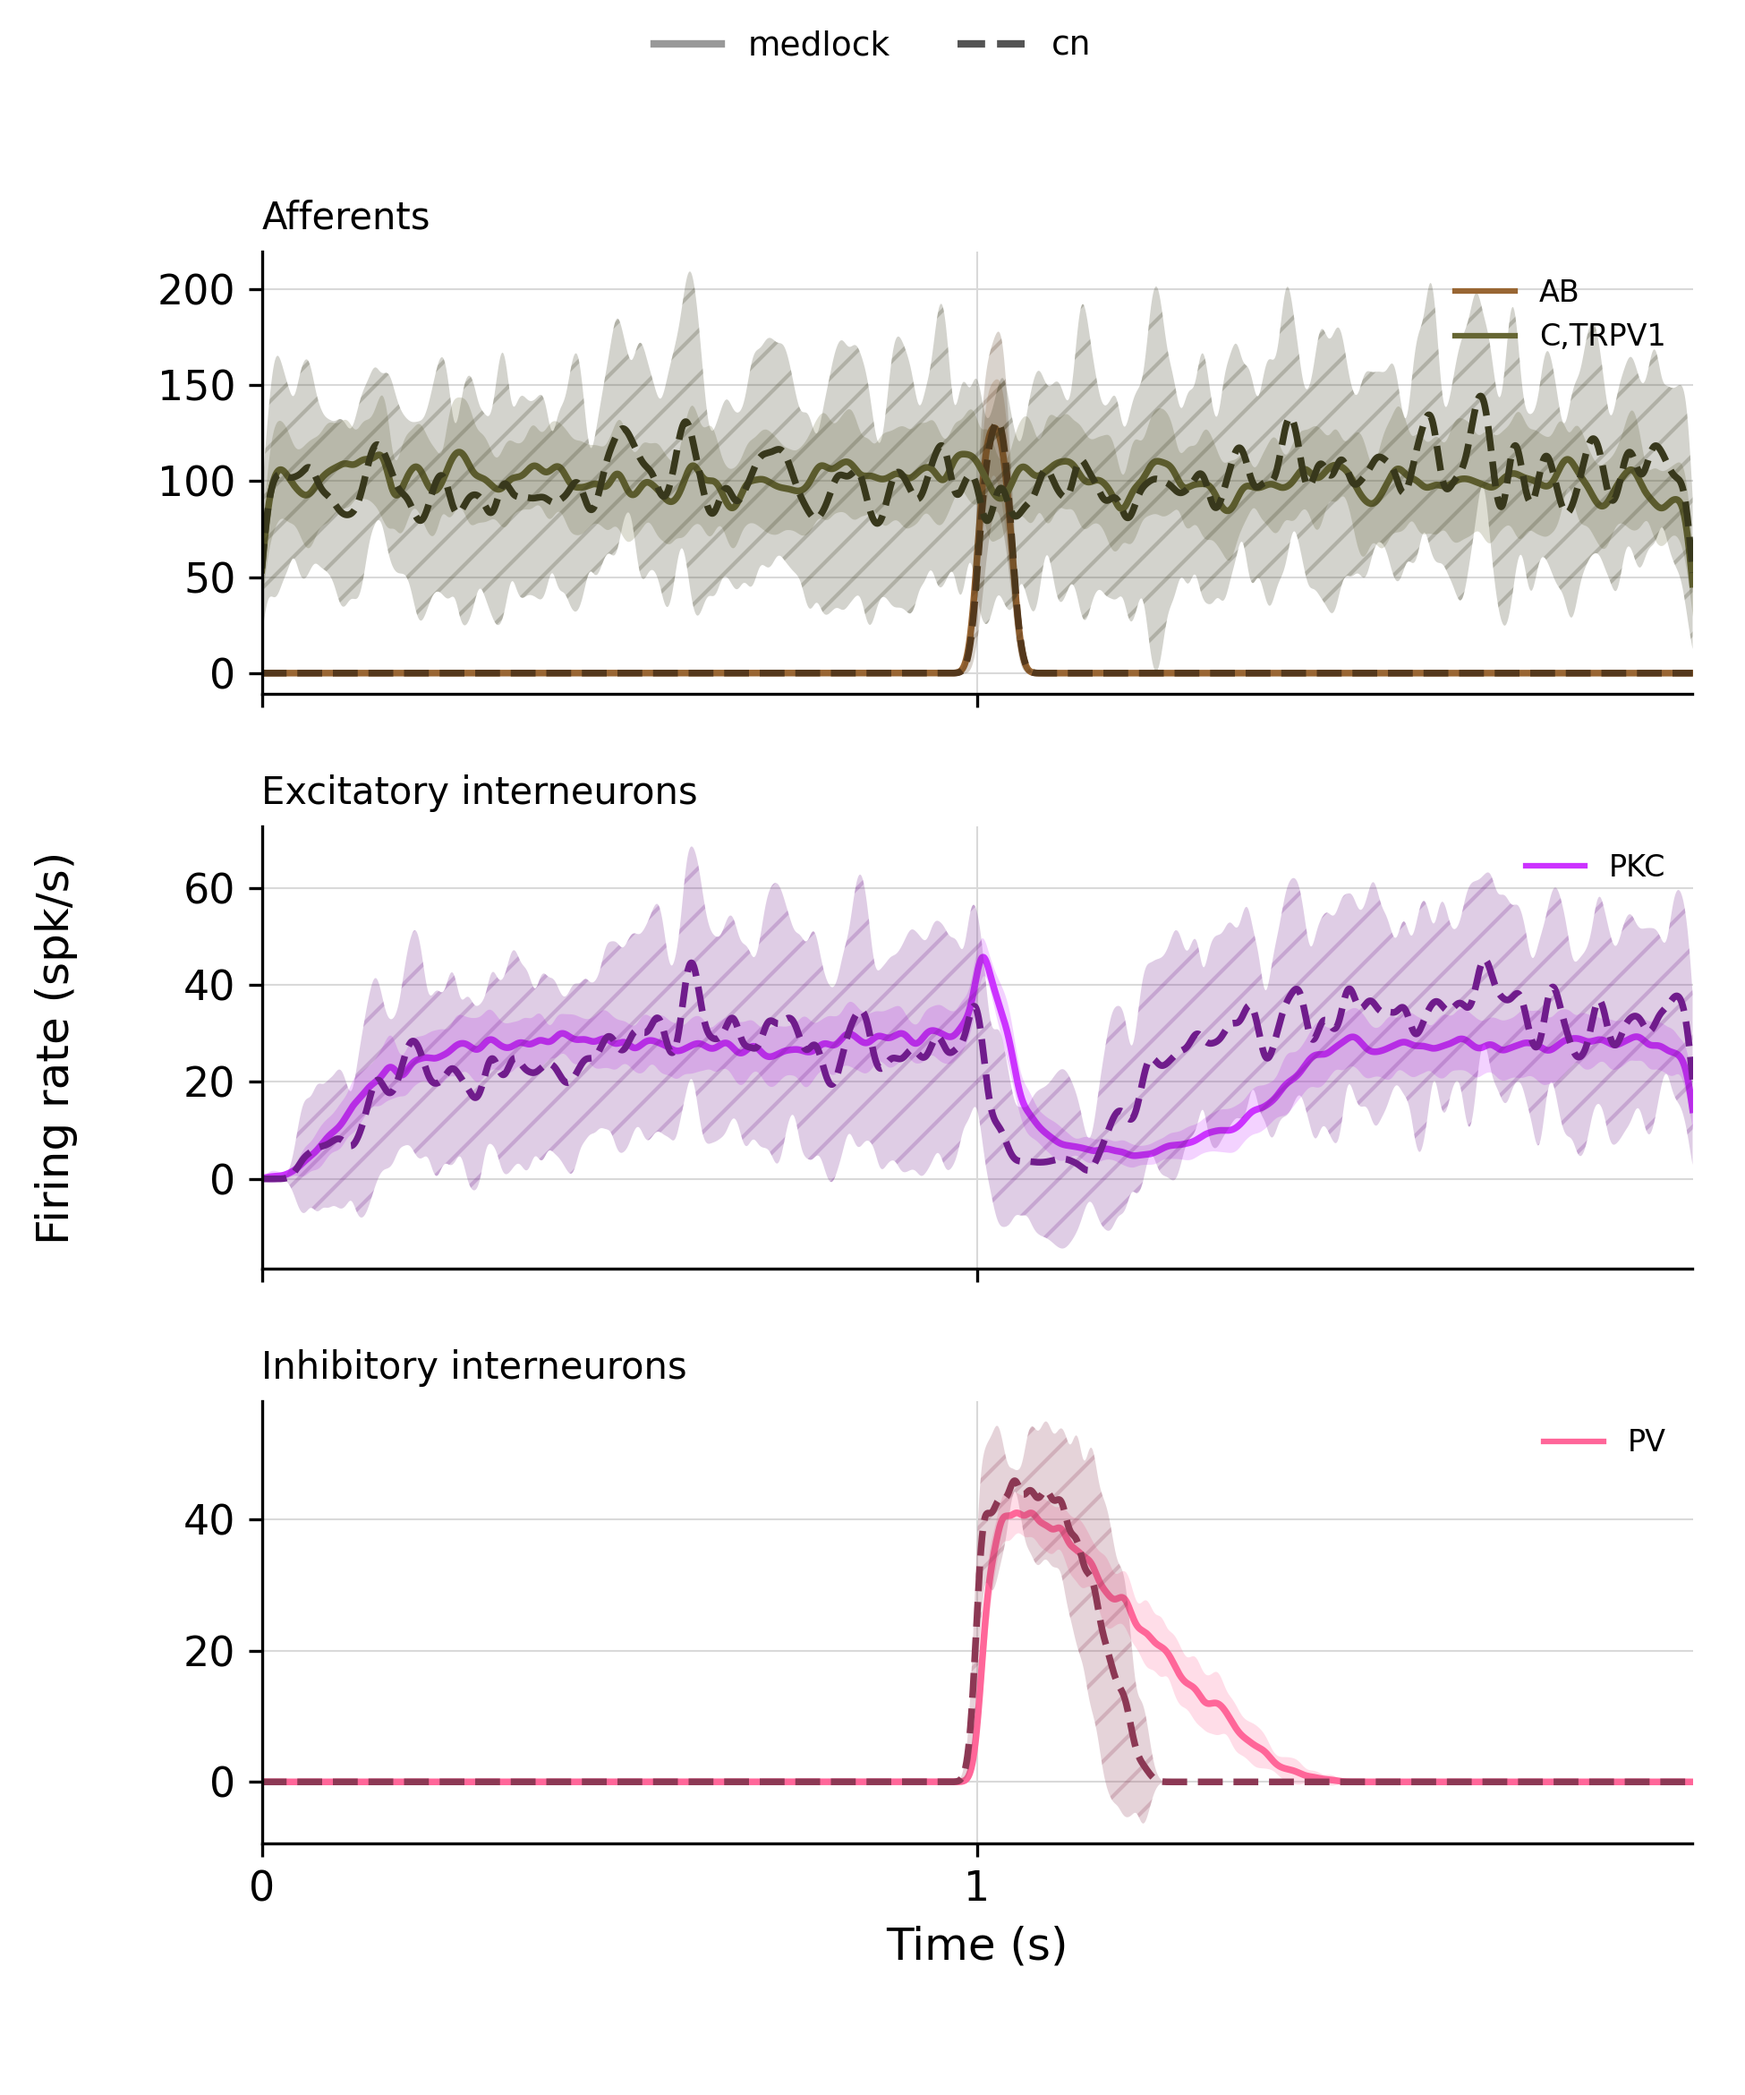
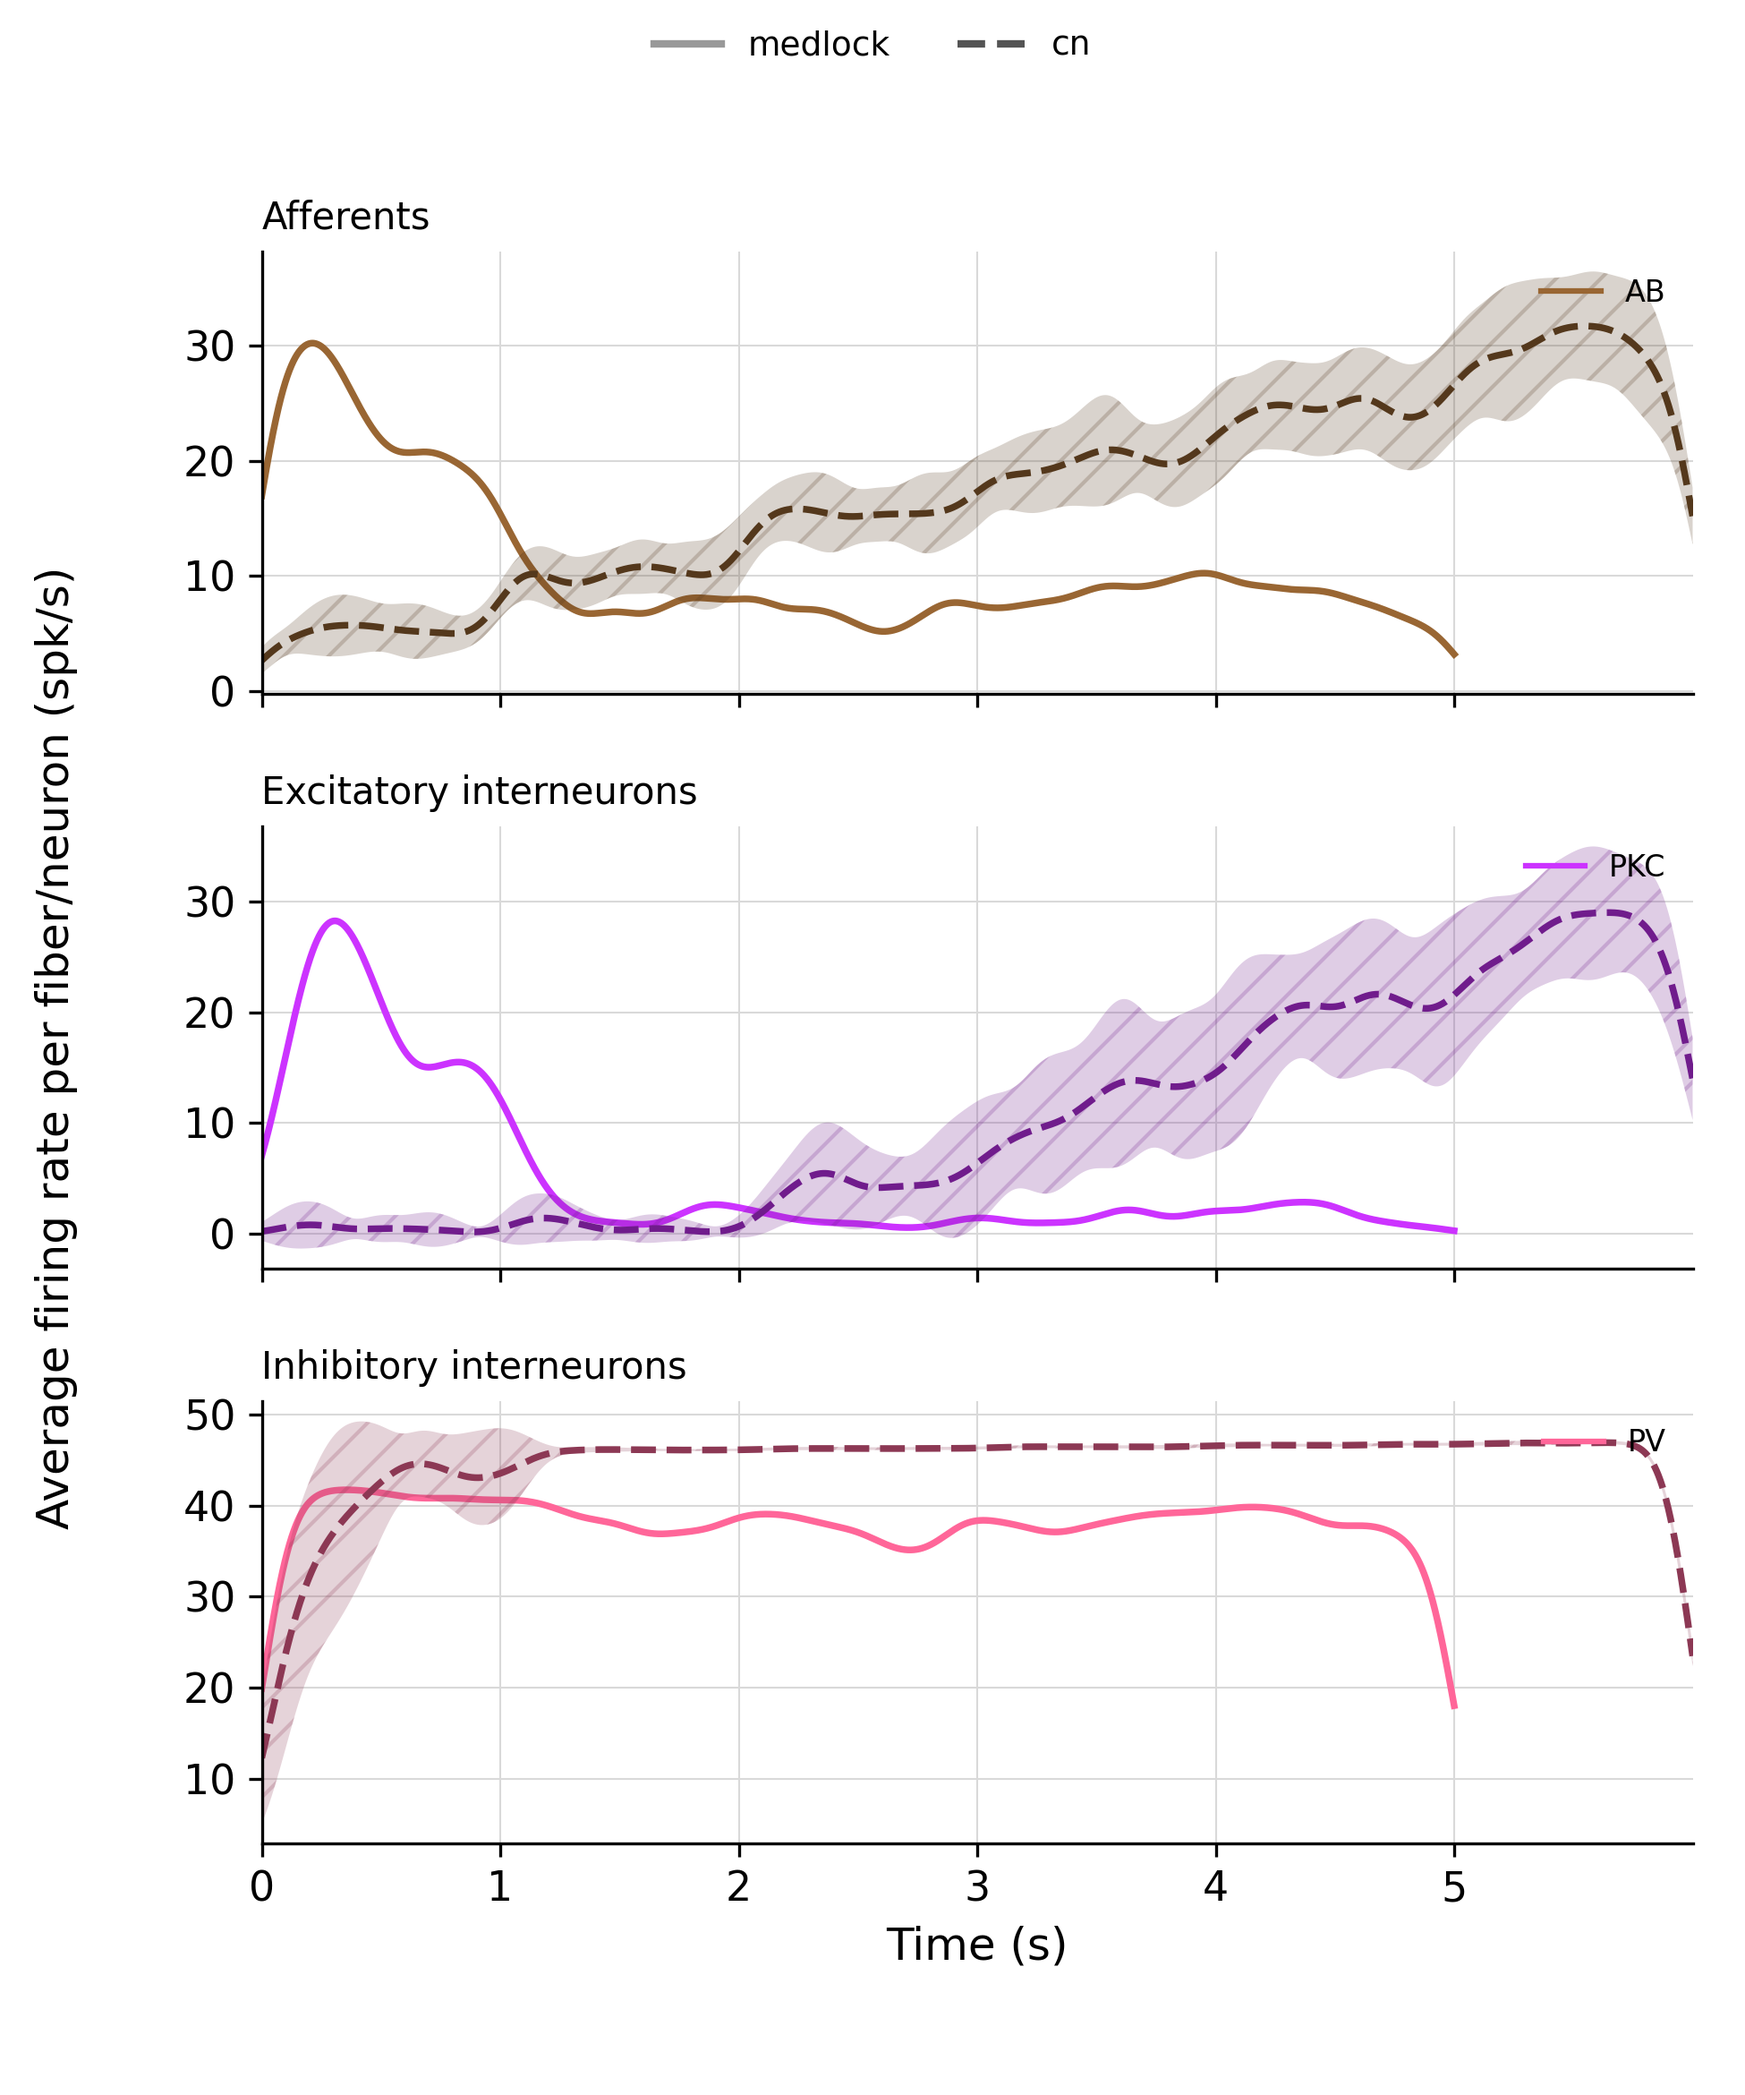
adding in idyn etc

diff --git a/netParams_mechanical_cn.py b/netParams_mechanical_cn.py
@@ -102,12 +102,12 @@ spkt_Ab_testing_1 = make_poisson_pop(rate=30, n_cells=_nAb, t_start=1250, t_stop
 spkt_Ab_testing_0 = make_poisson_pop(rate=30, n_cells=_nAb, t_start=1300, t_stop=1330, seed_base=_seed*5)
 '''
 
-spkt_Ab_testing_30 = make_poisson_pop(rate=1, n_cells=_nAb, t_start=0, t_stop=1000, seed_base=_seed*1000)
-spkt_Ab_testing_20 = make_poisson_pop(rate=2, n_cells=_nAb, t_start=1000, t_stop=2000, seed_base=_seed*28)
-spkt_Ab_testing_10 = make_poisson_pop(rate=4, n_cells=_nAb, t_start=2000, t_stop=3000, seed_base=_seed*1)
-spkt_Ab_testing_5 = make_poisson_pop(rate=6, n_cells=_nAb, t_start=3000, t_stop=4000, seed_base=_seed*161)
-spkt_Ab_testing_2 = make_poisson_pop(rate=8, n_cells=_nAb, t_start=4000, t_stop=5000, seed_base=_seed*55)
-spkt_Ab_testing_1 = make_poisson_pop(rate=10, n_cells=_nAb, t_start=5000, t_stop=6000, seed_base=_seed*17)
+spkt_Ab_testing_30 = make_poisson_pop(rate=5, n_cells=_nAb, t_start=0, t_stop=1000, seed_base=_seed*1000)
+spkt_Ab_testing_20 = make_poisson_pop(rate=10, n_cells=_nAb, t_start=1000, t_stop=2000, seed_base=_seed*28)
+spkt_Ab_testing_10 = make_poisson_pop(rate=15, n_cells=_nAb, t_start=2000, t_stop=3000, seed_base=_seed*1)
+spkt_Ab_testing_5 = make_poisson_pop(rate=20, n_cells=_nAb, t_start=3000, t_stop=4000, seed_base=_seed*161)
+spkt_Ab_testing_2 = make_poisson_pop(rate=25, n_cells=_nAb, t_start=4000, t_stop=5000, seed_base=_seed*55)
+spkt_Ab_testing_1 = make_poisson_pop(rate=30, n_cells=_nAb, t_start=5000, t_stop=6000, seed_base=_seed*17)
 
 blocks = [spkt_Ab_testing_1, spkt_Ab_testing_2, spkt_Ab_testing_5,
           spkt_Ab_testing_10, spkt_Ab_testing_20, spkt_Ab_testing_30]
@@ -123,12 +123,12 @@ spkt_Ab_testing_1 = make_poisson_pop(rate=30, n_cells=_nAb, t_start=1250, t_stop
 spkt_Ab_testing_0 = make_poisson_pop(rate=30, n_cells=_nAb, t_start=1300, t_stop=1330, seed_base=_seed*5)
 '''
 
-spkt_Ab_testing_30 = make_poisson_pop(rate=1, n_cells=_nAb, t_start=0, t_stop=1000, seed_base=_seed*30)
-spkt_Ab_testing_20 = make_poisson_pop(rate=2, n_cells=_nAb, t_start=1000, t_stop=2000, seed_base=_seed*20)
-spkt_Ab_testing_10 = make_poisson_pop(rate=4, n_cells=_nAb, t_start=2000, t_stop=3000, seed_base=_seed*10)
-spkt_Ab_testing_5 = make_poisson_pop(rate=6, n_cells=_nAb, t_start=3000, t_stop=4000, seed_base=_seed*5)
-spkt_Ab_testing_2 = make_poisson_pop(rate=8, n_cells=_nAb, t_start=4000, t_stop=5000, seed_base=_seed*2)
-spkt_Ab_testing_1 = make_poisson_pop(rate=10, n_cells=_nAb, t_start=5000, t_stop=6000, seed_base=_seed*2)
+spkt_Ab_testing_30 = make_poisson_pop(rate=5, n_cells=_nAb, t_start=0, t_stop=1000, seed_base=_seed*30)
+spkt_Ab_testing_20 = make_poisson_pop(rate=10, n_cells=_nAb, t_start=1000, t_stop=2000, seed_base=_seed*20)
+spkt_Ab_testing_10 = make_poisson_pop(rate=15, n_cells=_nAb, t_start=2000, t_stop=3000, seed_base=_seed*10)
+spkt_Ab_testing_5 = make_poisson_pop(rate=20, n_cells=_nAb, t_start=3000, t_stop=4000, seed_base=_seed*5)
+spkt_Ab_testing_2 = make_poisson_pop(rate=25, n_cells=_nAb, t_start=4000, t_stop=5000, seed_base=_seed*2)
+spkt_Ab_testing_1 = make_poisson_pop(rate=30, n_cells=_nAb, t_start=5000, t_stop=6000, seed_base=_seed*2)
 
 blocks = [spkt_Ab_testing_1, spkt_Ab_testing_2, spkt_Ab_testing_5,
           spkt_Ab_testing_10, spkt_Ab_testing_20, spkt_Ab_testing_30]
@@ -165,21 +165,23 @@ for i in range(NUM_AB_PULSE):
 
 spkt_Ab_30 = make_poisson_pop(rate=AB_FIBER_RATE, n_cells=_nAb, t_start=1000, t_stop=1050, seed_base=1)
 
-#netParams.popParams['Ab_PV'] = {'cellModel': 'VecStim', 'numCells': _nAb, 'spkTimes': spkt_Ab_pulse_PV}
-#netParams.popParams['Ab'] = {'cellModel': 'VecStim', 'numCells': _nAb, 'spkTimes': spkt_Ab_pulse_PKC}
+netParams.popParams['Ab_PV'] = {'cellModel': 'VecStim', 'numCells': _nAb, 'spkTimes': spkt_Ab_pulse_PV}
+netParams.popParams['Ab'] = {'cellModel': 'VecStim', 'numCells': _nAb, 'spkTimes': spkt_Ab_pulse_PKC}
 
 
 #spkt_Ab_30 = make_poisson_pop(rate=30, n_cells=_nAb, t_start=A_START, t_stop=A_END, seed_base=_seed*30)
 #spkt_Ab_30_PV = make_poisson_pop(rate=30, n_cells=_nAb, t_start=A_START, t_stop=A_END, seed_base=_seed*417)
 
 
-#netParams.popParams['Ab'] = {'cellModel': 'VecStim', 'numCells': _nAb, 'spkTimes': spkt_Ab_staircase}
-#netParams.popParams['Ab_PV'] = {'cellModel': 'VecStim', 'numCells': _nAb, 'spkTimes': spkt_Ab_staircase_PV}
-netParams.popParams['C_PEP'] = {'cellModel': 'VecStim', 'numCells': NUM_C_FIBERS, 'spkTimes': spkt_C}
+netParams.popParams['Ab'] = {'cellModel': 'VecStim', 'numCells': _nAb, 'spkTimes': spkt_Ab_staircase}
+netParams.popParams['Ab_PV'] = {'cellModel': 'VecStim', 'numCells': _nAb, 'spkTimes': spkt_Ab_staircase_PV}
+#netParams.popParams['C_PEP'] = {'cellModel': 'VecStim', 'numCells': NUM_C_FIBERS, 'spkTimes': spkt_C}
 #netParams.popParams['C_PEP'] = {'cellModel': 'VecStim', 'numCells': NUM_C_FIBERS, 'spkTimes': spkt_C_pulse}
-#netParams.popParams['PV'] = {'cellType': 'IN', 'numCells': 1} # PV+ neurons (inhibitory)
-#netParams.popParams['PKC'] = {'cellType': 'EXdl', 'numCells': 1}
-netParams.popParams['NK1'] = {'cellType': 'PRO', 'numCells': 1} # NK1+ neurons (projection)
+netParams.popParams['PV'] = {'cellType': 'IN', 'numCells': 1} # PV+ neurons (inhibitory)
+netParams.popParams['PKC'] = {'cellType': 'EXdl', 'numCells': 1}
+#netParams.popParams['NK1'] = {'cellType': 'PRO', 'numCells': 1} # NK1+ neurons (projection)
+#netParams.popParams['DYN'] = {'cellType': 'IN', 'numCells': 1} # Central/DYN+ neurons (inhibitory)
+
 
 
 netParams.defaultThreshold = -30
@@ -190,6 +192,7 @@ netParams.synMechParams['GABA'] = {'mod': 'GABAa_DynSyn'  , 'tau_rise': 0.1, 'ta
 netParams.synMechParams['GLY']  = {'mod': 'Glycine_DynSyn', 'tau_rise': 0.1, 'tau_decay': 10, 'e': -70 }
 netParams.synMechParams['NK13'] = {'mod': 'NK1_DynSyn'    , 'tau_rise': 100, 'tau_decay': 1000         }
 netParams.synMechParams['NK23'] = {'mod': 'NK1_DynSyn'    , 'tau_rise': 200, 'tau_decay': 3000         }
+
 
 netParams.connParams['Ab_AMPA->PV'] = {
     'oneSynPerNetcon': True,
@@ -316,3 +319,14 @@ netParams.connParams['C_PEP_NK1->NK1'] = {
     'delay': 10.0,
     'loc': 0.5,
     'synMech': 'NK13'}
+
+netParams.connParams['Ab_AMPA->DYN'] = {
+    'oneSynPerNetcon': True,
+    'preConds': {'popLabel': 'Ab'}, 
+    'postConds': {'popLabel': 'DYN'},  
+    'weight': cfg.Ab_IN_AMPA,           
+    'sec': 'soma',
+    'probability': 1,
+    'delay': 1.0,
+    'loc': 0.5,
+    'synMech': 'AMPA'} 

diff --git a/Helper Scripts & misc. (must remove from folder to use)/FRHcode/plot_frhs.py b/Helper Scripts & misc. (must remove from folder to use)/FRHcode/plot_frhs.py
@@ -70,12 +70,19 @@ Examples
 
     UPDATE 10/8/26 FOR SUMMING OF AFFERENT FIBERS AND FRACTION FOR MEDLOCK AFFERENTS
     
+    # USE THIS ONE LAB COMPUTER
     python3 plot_frhs.py --no-baseline \
     --trials /Users/fstern/Desktop/medlock-comparison-model/data/Circuit_Trial_Medlock_run*_data.json --trials-label medlock \
     --trials-fraction 0.2 \
     --trials2 /Users/fstern/Desktop/comp-neuro/data/Circuit_Trial_run*_data.json --trials2-label cn \
     --autoscale --out medlock_vs_cn_frh.png
 
+    #USE THIS ON LAPTOP
+   python3 plot_frhs.py --no-baseline \
+    --trials /Users/fionastern/Desktop/medlock-comparison-model/data/Circuit_Trial_Medlock_run*_data.json --trials-label medlock \
+    --trials-fraction 0.2 \
+    --trials2 /Users/fionastern/Desktop/comp-neuro/data/Circuit_Trial_run*_data.json --trials2-label cn \
+    --autoscale --out medlock_vs_cn_frh.png
 
 
 '''
@@ -94,9 +101,9 @@ from matplotlib.lines import Line2D
 
 # ---------------------------------------------------------------- constants --
 
-END_TIME = 2.0     # s, simulated duration (EndTime in FiringRateHist.m)
+END_TIME = 6.0     # s, simulated duration (EndTime in FiringRateHist.m)
 RES      = 0.025   # ms, sampling resolution of simData.t
-KWID     = 10.0   # ms, Gaussian kernel sigma (kWid in FiringRateHist.m)
+KWID     = 100.0   # ms, Gaussian kernel sigma (kWid in FiringRateHist.m)
 
 # Default reference run, plotted unless --no-baseline is given. Override with
 # --baseline if the file lives somewhere else.
@@ -169,7 +176,7 @@ GROUP_ALT_POPS = {'AB': ['Ab']}
 # Groups whose spikes are summed across all cells into one combined spike
 # train (as a downstream synapse would receive them), smoothed once, and
 # reported as the TOTAL rate rather than the per-cell average.
-SUMMED_GROUPS = {'AB', 'C,TRPV1'}
+SUMMED_GROUPS = {}#'AB', 'C,TRPV1'}
 
 
 def resolve_pops(name, pops, have):
@@ -799,7 +806,7 @@ def main():
     axes[-1].set_xticks(xticks)
     axes[-1].set_xticklabels([x // 1000 for x in xticks])
     axes[-1].set_xlabel('Time (s)', fontsize=12)
-    fig.text(0.02, 0.5, 'Firing rate (spk/s)', rotation=90, va='center',
+    fig.text(0.02, 0.5, 'Average firing rate per fiber/neuron (spk/s)', rotation=90, va='center',
              fontsize=12)
     fig.subplots_adjust(left=0.15, right=0.97, top=top, bottom=0.12, hspace=0.3)
     fig.savefig(args.out, dpi=300)

diff --git a/cfg_mechanical_cn.py b/cfg_mechanical_cn.py
@@ -9,7 +9,7 @@ cfg = specs.SimConfig()
 
 cfg.hParams = {'celsius': 36, 'v_init': -60}
 cfg.vrest = cfg.hParams['v_init']
-cfg.duration = 2000
+cfg.duration = 6000
 
 cfg.recordStep = 0.025#25#0.025
 cfg.dt = 0.025
@@ -21,13 +21,13 @@ cfg.dt = 0.025
 cfg.inputRate = 10.0    # Hz, mean rate of EACH Ab afferent
 cfg.numAb     = 4      # number of independent Ab afferents
 cfg.spktSeed  = 1703    # base RNG seed (cell i uses spktSeed + i); None = random
-cfg.abInputMode = 'poisson'  # 'physiological' = SAI/SAII rate curves (default, normal runs);
+cfg.abInputMode = 'physiological'  # 'physiological' = SAI/SAII rate curves (default, normal runs);
                                     # 'poisson' = homogeneous rate-controlled drive (set by poisson_sweep.py)
  
 
 EX_SCALE = 0.195 #0.23       #  Ab -> Ex synaptic weights
-IN_SCALE = 0.4        #  Ab -> IN synaptic weights
-PV_PKC_SCALE = 0.03 #0.024  #  PV -> PKC synaptic weights
+IN_SCALE = 0.6        #  Ab -> IN synaptic weights
+PV_PKC_SCALE = 0.02#0.024 #0.03  #  PV -> PKC synaptic weights
 
 SYN_CAP_EX = 0.29       # nA, max allowed inward (excitatory) AMPA+NMDA current on PV cells
 SYN_CAP_IN = 0.042      # nA, max allowed inward (excitatory) AMPA+NMDA current on PV cells

diff --git a/tests_cn.py b/tests_cn.py
@@ -25,8 +25,8 @@ from spkt_gen_cn import generate_new_SPKT
 import importlib
 
 
-nRuns = 1
-SIM_DURATION = 2000  # ms
+nRuns = 20
+SIM_DURATION = 6000  # ms
 SIM_DURATION_sec = SIM_DURATION / 1000.0
 INPUT_RATE = 10
 
@@ -62,7 +62,7 @@ for run in range(nRuns):
     # no zero-padding of unused slots, and no assert needed -- just one
     # setpointer call per synapse, pointing it at ExcCap's iacc_ampa/iacc_nmda.
     for cell in sim.net.cells:
-        if cell.tags.get('pop') not in ('PV', 'VGLUT3', 'PKC'):
+        if cell.tags.get('pop') not in ('PV', 'VGLUT3', 'PKC', 'DYN'):
             continue
 
         excCap = cell.secs['soma']['pointps']['ExcCap']['hObj']
